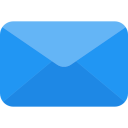
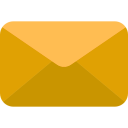
fixes

diff --git a/index.html b/index.html
@@ -33,6 +33,9 @@
       <nav>
         <ul>
           <li>
+            <p style="color: red">Portfolio development Still in progress !!</p>
+          </li>
+          <li>
             <a
               href="https://drive.google.com/file/d/15NtIz8lrbgRdIhZGGXq1bKpz8EOTKElf/view?usp=sharing"
               class="nav-link"
@@ -45,7 +48,8 @@
       <div class="row introduction">
         <div class="col-md-6">
           <h1>
-            I'm Nassim SADI <br />
+            I'm Nassim SADI , a newly graduate Network engineer , junior flutter
+            Developer and a web developer . <br />
             <span id="identity"></span>
           </h1>
         </div>
@@ -122,11 +126,11 @@
 
       <div class="row align-items-center">
         <div class="col-12 col-md-6 align-items-center">
-          <h2 class="text-center">
+          <h3 class="text-center">
             Flutter transforms the app development process. Build, test, and
             deploy beautiful mobile, web, desktop, and embedded apps from a
             single codebase.
-          </h2>
+          </h3>
         </div>
         <div class="col-12 col-md-6 showcase">
           <img
@@ -139,11 +143,11 @@
       </div>
       <div class="row align-items-center">
         <div class="col-12 col-md-6 align-items-center">
-          <h2 class="text-center">
+          <h3 class="text-center">
             Flutter transforms the app development process. Build, test, and
             deploy beautiful mobile, web, desktop, and embedded apps from a
             single codebase.
-          </h2>
+          </h3>
         </div>
         <div class="col-4 col-md-2 showcase">
           <img
@@ -172,17 +176,17 @@
       </div>
       <div class="row align-items-center">
         <div class="col-12 col-md-6 align-items-center">
-          <h2 class="text-center">
+          <h3 class="text-center">
             Flutter transforms the app development process. Build, test, and
             deploy beautiful mobile, web, desktop, and embedded apps from a
             single codebase.
-          </h2>
+          </h3>
         </div>
         <div class="col-4 col-md-2 showcase">
           <img
             class="img-fluid"
             data-aos="fade-up-left"
-            src="img/phones/mobile_1.png"
+            src="img/phones/mobile_10.png"
             alt="fav"
           />
         </div>
@@ -190,7 +194,7 @@
           <img
             class="img-fluid"
             data-aos="flip-up"
-            src="img/phones/mobile_2.png"
+            src="img/phones/mobile_3.png"
             alt="fav"
           />
         </div>
@@ -198,24 +202,24 @@
           <img
             class="img-fluid"
             data-aos="zoom-in "
-            src="img/phones/mobile_6.png"
+            src="img/phones/mobile_4.png"
             alt="fav"
           />
         </div>
       </div>
       <div class="row align-items-center">
         <div class="col-12 col-md-6 align-items-center">
-          <h2 class="text-center">
+          <h3 class="text-center">
             Flutter transforms the app development process. Build, test, and
             deploy beautiful mobile, web, desktop, and embedded apps from a
             single codebase.
-          </h2>
+          </h3>
         </div>
         <div class="col-4 col-md-2 showcase">
           <img
             class="img-fluid"
             data-aos="fade-up-left"
-            src="img/phones/mobile_1.png"
+            src="img/phones/mobile_9.png"
             alt="fav"
           />
         </div>
@@ -223,7 +227,7 @@
           <img
             class="img-fluid"
             data-aos="flip-up"
-            src="img/phones/mobile_2.png"
+            src="img/phones/mobile_7.png"
             alt="fav"
           />
         </div>
@@ -231,7 +235,7 @@
           <img
             class="img-fluid"
             data-aos="zoom-in "
-            src="img/phones/mobile_6.png"
+            src="img/phones/mobile_8.png"
             alt="fav"
           />
         </div>

diff --git a/css/style.css b/css/style.css
@@ -117,60 +117,60 @@ a:active {
 .facebook {
   font-size: 20px;
   padding-top: 8px;
-  border-color: #3b5998;
-  background-color: #3b5998;
-  color: #ffffff;
+  border-color: var(--site-sndfont-clr);
+  background-color: var(--site-sndfont-clr);
+  color: var(--site-acnt3-clr);
 }
 .facebook:hover {
-  background-color: #ffffff;
-  color: #3b5998;
+  background-color: var(--site-acnt3-clr);
+  color: var(--site-sndfont-clr);
 }
 /* Twitter Button Styling */
 .twitter {
   font-size: 20px;
   padding-top: 9px;
   padding-left: 2px;
-  border-color: #55acee;
-  background-color: #55acee;
-  color: #ffffff;
+  border-color: var(--site-sndfont-clr);
+  background-color: var(--site-sndfont-clr);
+  color: var(--site-acnt3-clr);
 }
 
 .mail {
   font-size: 20px;
   padding-top: 6px;
   padding-left: 1px;
-  border-color: #55acee;
-  background-color: #55acee;
-  color: #ffffff;
+  border-color: var(--site-sndfont-clr);
+  background-color: var(--site-sndfont-clr);
+  color: var(--site-acnt3-clr);
 }
 .mail:hover {
-  background-color: #ffffff;
-  color: #55acee;
+  background-color: var(--site-acnt3-clr);
+  color: var(--site-sndfont-clr);
 }
 /* Linkedin Button Styling */
 .linkedin {
   font-size: 22px;
   padding-top: 8px;
   padding-left: 1px;
-  background-color: #0976b4;
-  color: #ffffff;
-  border-color: #0976b4;
+  background-color: var(--site-sndfont-clr);
+  color: var(--site-acnt3-clr);
+  border-color: var(--site-sndfont-clr);
 }
 .linkedin :hover {
-  background-color: #ffffff;
-  color: #0976b4;
+  background-color: var(--site-acnt3-clr);
+  color: var(--site-sndfont-clr);
 }
 /* Github Button Styling */
 .github {
   font-size: 20px;
   padding-top: 8px;
-  background-color: #4183c4;
-  color: #ffffff;
-  border-color: #4183c4;
+  background-color: var(--site-sndfont-clr);
+  color: var(--site-acnt3-clr);
+  border-color: var(--site-sndfont-clr);
 }
 .github:hover {
-  background-color: #ffffff;
-  color: #4183c4;
+  background-color: var(--site-acnt3-clr);
+  color: var(--site-sndfont-clr);
 }
 
 /*--------------rgb effects ============================  */
@@ -460,7 +460,7 @@ a .fa {
 /*FOOTER*/
 
 .border-shape {
-  background: #ffbe00 none repeat scroll 0 0;
+  background: var(--site-sndfont-clr) none repeat scroll 0 0;
   color: #fff;
   display: block;
   height: 3px;
@@ -474,7 +474,7 @@ a .fa {
 }
 
 .border-shape::before {
-  background: #ffbe00 none repeat scroll 0 0;
+  background: var(--site-sndfont-clr) none repeat scroll 0 0;
   bottom: 0;
   content: "";
   height: 1px;
@@ -487,7 +487,7 @@ a .fa {
 }
 
 .border-shape::after {
-  background: #ffbe00 none repeat scroll 0 0;
+  background: var(--site-sndfont-clr) none repeat scroll 0 0;
   bottom: 0;
   content: "";
   height: 1px;
@@ -530,7 +530,7 @@ footer {
 }
 
 .top_header .fa {
-  color: #ffbe00;
+  color: var(--site-sndfont-clr);
   font-size: 35px;
 }
 
@@ -580,9 +580,9 @@ footer .bottom_content section {
     margin-top: 20vh;
   }
 
-  .introduction h1 {
-    font-size: 4.5rem;
-  }
+  /* .introduction h1 {
+    font-size: 2.5rem;
+  } */
   .introduction {
     height: 65vh;
     padding-top: 10vh;
@@ -596,9 +596,9 @@ footer .bottom_content section {
     margin-top: 5vh;
     margin-bottom: 5vh;
   }
-  .introduction h1 {
+  /* .introduction h1 {
     font-size: 2.5rem;
-  }
+  } */
   .top_header {
     padding: 1rem;
     display: block;

diff --git a/js/script.js b/js/script.js
@@ -7,7 +7,10 @@ document.addEventListener("DOMContentLoaded", function () {
   //----------typer setting
 
   var Typeoptions = {
-    strings: ["a Mobile Developer.^2000", "a Web Developer.^1000"],
+    strings: [
+      "a Mobile Developer using Flutter.^2000",
+      "a junior web developer.^1000",
+    ],
     typeSpeed: 100,
     loop: true,
   };
